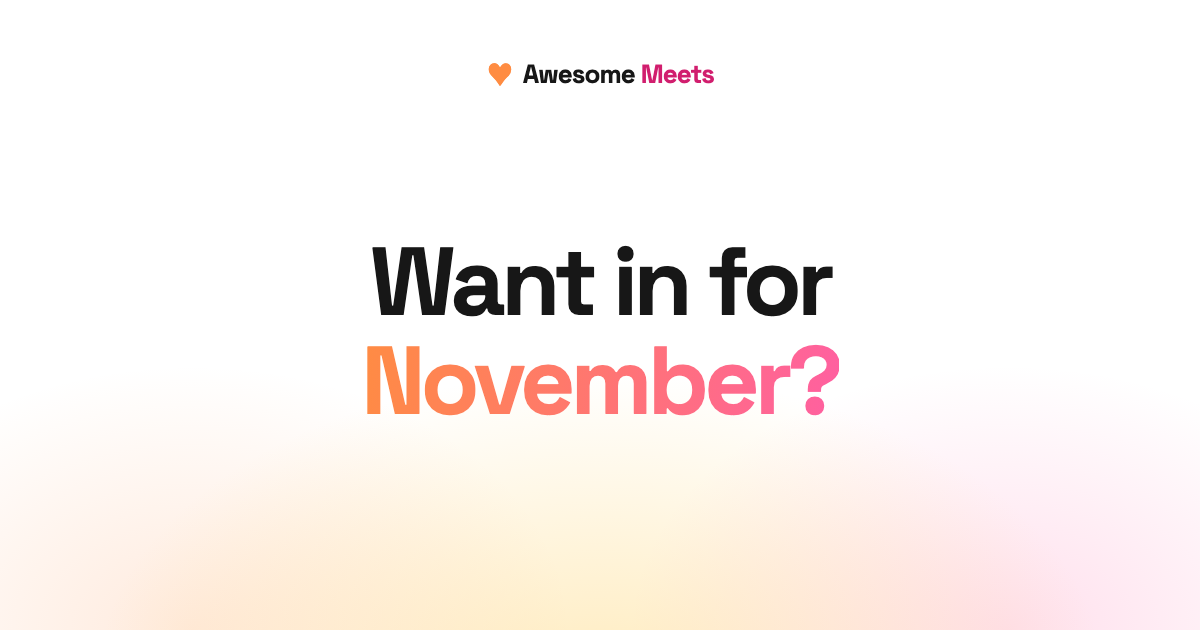
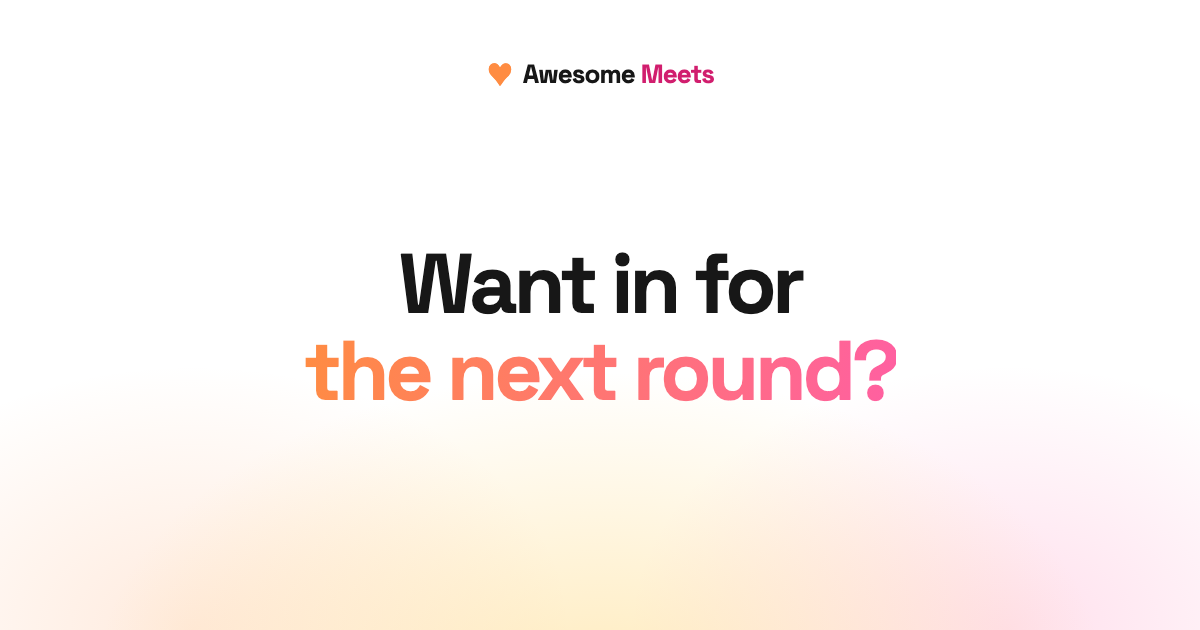
Join thumbnail without a month: Want in for the next round? (v2.55)

Changed region(s): [[0.2467, 0.5429, 0.7708, 0.6635], [0.3083, 0.3921, 0.7092, 0.5127]]

diff --git a/join/index.html b/join/index.html
@@ -13,7 +13,7 @@
     gtag('config', 'G-60GBR73KYC');
   </script>
   <script src="https://analytics.ahrefs.com/analytics.js" data-key="cfnnZfeMKl9oOXrEyxjwuw" async></script>
-  <meta name="am-version" content="2.54">
+  <meta name="am-version" content="2.55">
   <title>Join the waitlist for December | Awesome Meets</title>
   <meta name="description" content="Join the waitlist for December. Awesome Meets introduces you to someone new in Helsinki for a one-to-one conversation over lunch, coffee or a walk.">
   <link rel="canonical" href="https://awesomemeets.com/join/">
@@ -21,10 +21,10 @@
   <meta property="og:type" content="website">
   <meta property="og:title" content="Join the waitlist for December | Awesome Meets">
   <meta property="og:description" content="Join the waitlist for December. Awesome Meets introduces you to someone new in Helsinki for a one-to-one conversation over lunch, coffee or a walk.">
-  <meta property="og:image" content="https://awesomemeets.com/assets/img/og-join.png">
+  <meta property="og:image" content="https://awesomemeets.com/assets/img/og-join.png?v=2">
   <meta property="og:image:width" content="1200">
   <meta property="og:image:height" content="630">
-  <meta name="twitter:image" content="https://awesomemeets.com/assets/img/og-join.png">
+  <meta name="twitter:image" content="https://awesomemeets.com/assets/img/og-join.png?v=2">
   <meta property="og:url" content="https://awesomemeets.com/join/">
   <meta name="twitter:card" content="summary_large_image">
   <link rel="icon" href="../favicon.ico" sizes="any">
@@ -35,7 +35,7 @@
   <link rel="preconnect" href="https://fonts.googleapis.com">
   <link rel="preconnect" href="https://fonts.gstatic.com" crossorigin>
   <link href="https://fonts.googleapis.com/css2?family=Inter:wght@400;500;600&family=Space+Grotesk:wght@500;600;700&display=swap" rel="stylesheet">
-  <link rel="stylesheet" href="../assets/css/site.css?v=2.54">
+  <link rel="stylesheet" href="../assets/css/site.css?v=2.55">
 </head>
 <body>
 
@@ -338,9 +338,9 @@
   </div>
 </footer>
 
-<script src="../assets/js/config.js?v=2.54"></script>
-<script src="../assets/js/site.js?v=2.54"></script>
-<script src="../assets/js/form.js?v=2.54"></script>
+<script src="../assets/js/config.js?v=2.55"></script>
+<script src="../assets/js/site.js?v=2.55"></script>
+<script src="../assets/js/form.js?v=2.55"></script>
 <!-- Buy Me a Coffee button (Anna's own embed code, 30 Sep 2026). Its phone position and message style are adjusted in site.css. -->
 <script data-name="BMC-Widget" data-cfasync="false" src="https://cdnjs.buymeacoffee.com/1.0.0/widget.prod.min.js" data-id="awesomemeets" data-description="Support me on Buy me a coffee!" data-message="Support Awesome Meets, one coffee at a time ☕" data-color="#FF813F" data-position="Right" data-x_margin="18" data-y_margin="18"></script>
 </body>

diff --git a/index.html b/index.html
@@ -13,7 +13,7 @@
     gtag('config', 'G-60GBR73KYC');
   </script>
   <script src="https://analytics.ahrefs.com/analytics.js" data-key="cfnnZfeMKl9oOXrEyxjwuw" async></script>
-  <meta name="am-version" content="2.54">
+  <meta name="am-version" content="2.55">
   <title>One-to-one networking in Helsinki | Awesome Meets</title>
   <meta name="description" content="Awesome Meets is one-to-one networking in Helsinki. We introduce you to someone new from your field, and you meet over lunch, coffee or a walk.">
   <link rel="canonical" href="https://awesomemeets.com/">
@@ -40,8 +40,8 @@
   <link href="https://fonts.googleapis.com/css2?family=Inter:wght@400;500;600&family=Space+Grotesk:wght@500;600;700&display=swap" rel="stylesheet">
   <!-- 'js' lets sections fade in as you scroll. If the homepage script never arrives, show everything after 4 seconds. -->
   <script>document.documentElement.className = 'js'; setTimeout(function () { if (!window.AMHome) document.documentElement.className = ''; }, 4000);</script>
-  <link rel="stylesheet" href="assets/css/site.css?v=2.54">
-  <link rel="stylesheet" href="assets/css/home.css?v=2.54">
+  <link rel="stylesheet" href="assets/css/site.css?v=2.55">
+  <link rel="stylesheet" href="assets/css/home.css?v=2.55">
 </head>
 <body class="home has-dock">
 
@@ -281,9 +281,9 @@
   <a class="btn btn--primary" href="join/" data-show="open" hidden>Sign up</a>
 </div>
 
-<script src="assets/js/config.js?v=2.54"></script>
-<script src="assets/js/site.js?v=2.54"></script>
-<script src="assets/js/home.js?v=2.54"></script>
+<script src="assets/js/config.js?v=2.55"></script>
+<script src="assets/js/site.js?v=2.55"></script>
+<script src="assets/js/home.js?v=2.55"></script>
 <!-- Buy Me a Coffee button (Anna's own embed code, 30 Sep 2026). Its phone position and message style are adjusted in site.css. -->
 <script data-name="BMC-Widget" data-cfasync="false" src="https://cdnjs.buymeacoffee.com/1.0.0/widget.prod.min.js" data-id="awesomemeets" data-description="Support me on Buy me a coffee!" data-message="Support Awesome Meets, one coffee at a time ☕" data-color="#FF813F" data-position="Right" data-x_margin="18" data-y_margin="18"></script>
 </body>

diff --git a/about/index.html b/about/index.html
@@ -13,7 +13,7 @@
     gtag('config', 'G-60GBR73KYC');
   </script>
   <script src="https://analytics.ahrefs.com/analytics.js" data-key="cfnnZfeMKl9oOXrEyxjwuw" async></script>
-  <meta name="am-version" content="2.54">
+  <meta name="am-version" content="2.55">
   <title>About Awesome Meets: one-to-one networking in Helsinki</title>
   <meta name="description" content="Who runs Awesome Meets, how one-to-one networking in Helsinki works, and answers to common questions. By the creators of The Awesome Marketers.">
   <link rel="canonical" href="https://awesomemeets.com/about/">
@@ -38,7 +38,7 @@
   <link rel="preconnect" href="https://fonts.googleapis.com">
   <link rel="preconnect" href="https://fonts.gstatic.com" crossorigin>
   <link href="https://fonts.googleapis.com/css2?family=Inter:wght@400;500;600&family=Space+Grotesk:wght@500;600;700&display=swap" rel="stylesheet">
-  <link rel="stylesheet" href="../assets/css/site.css?v=2.54">
+  <link rel="stylesheet" href="../assets/css/site.css?v=2.55">
 </head>
 <body class="has-dock">
 
@@ -153,8 +153,8 @@
   <a class="btn btn--primary" href="../join/" data-am-cta>Join the waitlist for December</a>
 </div>
 
-<script src="../assets/js/config.js?v=2.54"></script>
-<script src="../assets/js/site.js?v=2.54"></script>
+<script src="../assets/js/config.js?v=2.55"></script>
+<script src="../assets/js/site.js?v=2.55"></script>
 <!-- Buy Me a Coffee button (Anna's own embed code, 30 Sep 2026). Its phone position and message style are adjusted in site.css. -->
 <script data-name="BMC-Widget" data-cfasync="false" src="https://cdnjs.buymeacoffee.com/1.0.0/widget.prod.min.js" data-id="awesomemeets" data-description="Support me on Buy me a coffee!" data-message="Support Awesome Meets, one coffee at a time ☕" data-color="#FF813F" data-position="Right" data-x_margin="18" data-y_margin="18"></script>
 </body>

diff --git a/data/index.html b/data/index.html
@@ -13,7 +13,7 @@
     gtag('config', 'G-60GBR73KYC');
   </script>
   <script src="https://analytics.ahrefs.com/analytics.js" data-key="cfnnZfeMKl9oOXrEyxjwuw" async></script>
-  <meta name="am-version" content="2.54">
+  <meta name="am-version" content="2.55">
   <title>Data policy | Awesome Meets</title>
   <meta name="description" content="What Awesome Meets collects, who can see it, what it is used for and how to have it deleted. The short version first, then the full data policy.">
   <link rel="canonical" href="https://awesomemeets.com/data/">
@@ -35,7 +35,7 @@
   <link rel="preconnect" href="https://fonts.googleapis.com">
   <link rel="preconnect" href="https://fonts.gstatic.com" crossorigin>
   <link href="https://fonts.googleapis.com/css2?family=Inter:wght@400;500;600&family=Space+Grotesk:wght@500;600;700&display=swap" rel="stylesheet">
-  <link rel="stylesheet" href="../assets/css/site.css?v=2.54">
+  <link rel="stylesheet" href="../assets/css/site.css?v=2.55">
 </head>
 <body class="has-dock">
 
@@ -198,8 +198,8 @@
   <a class="btn btn--primary" href="../join/" data-am-cta>Join the waitlist for December</a>
 </div>
 
-<script src="../assets/js/config.js?v=2.54"></script>
-<script src="../assets/js/site.js?v=2.54"></script>
+<script src="../assets/js/config.js?v=2.55"></script>
+<script src="../assets/js/site.js?v=2.55"></script>
 <!-- Buy Me a Coffee button (Anna's own embed code, 30 Sep 2026). Its phone position and message style are adjusted in site.css. -->
 <script data-name="BMC-Widget" data-cfasync="false" src="https://cdnjs.buymeacoffee.com/1.0.0/widget.prod.min.js" data-id="awesomemeets" data-description="Support me on Buy me a coffee!" data-message="Support Awesome Meets, one coffee at a time ☕" data-color="#FF813F" data-position="Right" data-x_margin="18" data-y_margin="18"></script>
 </body>

diff --git a/plan/index.html b/plan/index.html
@@ -8,7 +8,7 @@
        earliest shared time and a place and emails the group. Same rules as feedback/: lives here and not on the Google
        script's own address (Drive error for anyone signed into several Google accounts), and on purpose NO Google
        Analytics, NO Ahrefs and NO Buy Me a Coffee: the address carries a personal link code. Not in the sitemap, not indexed. -->
-  <meta name="am-version" content="2.54">
+  <meta name="am-version" content="2.55">
   <title>Plan your meetup | Awesome Meets</title>
   <meta name="robots" content="noindex, nofollow">
   <meta name="referrer" content="no-referrer">
@@ -20,7 +20,7 @@
   <link rel="preconnect" href="https://fonts.googleapis.com">
   <link rel="preconnect" href="https://fonts.gstatic.com" crossorigin>
   <link href="https://fonts.googleapis.com/css2?family=Inter:wght@400;500;600&family=Space+Grotesk:wght@500;600;700&display=swap" rel="stylesheet">
-  <link rel="stylesheet" href="../assets/css/site.css?v=2.54">
+  <link rel="stylesheet" href="../assets/css/site.css?v=2.55">
 </head>
 <body class="fb-page plan-page">
 
@@ -136,7 +136,7 @@
   </div>
 </footer>
 
-<script src="../assets/js/config.js?v=2.54"></script>
-<script src="../assets/js/plan.js?v=2.54"></script>
+<script src="../assets/js/config.js?v=2.55"></script>
+<script src="../assets/js/plan.js?v=2.55"></script>
 </body>
 </html>

diff --git a/feedback/index.html b/feedback/index.html
@@ -8,7 +8,7 @@
        ("Sorry, unable to open the file at this time") to anyone signed into more than one Google account.
        On purpose this page has NO Google Analytics, NO Ahrefs and NO Buy Me a Coffee button: the address carries
        a personal link code, and that code should not travel to any other service. Not in the sitemap, not indexed. -->
-  <meta name="am-version" content="2.54">
+  <meta name="am-version" content="2.55">
   <title>How did it go? | Awesome Meets</title>
   <meta name="robots" content="noindex, nofollow">
   <meta name="referrer" content="no-referrer">
@@ -20,7 +20,7 @@
   <link rel="preconnect" href="https://fonts.googleapis.com">
   <link rel="preconnect" href="https://fonts.gstatic.com" crossorigin>
   <link href="https://fonts.googleapis.com/css2?family=Inter:wght@400;500;600&family=Space+Grotesk:wght@500;600;700&display=swap" rel="stylesheet">
-  <link rel="stylesheet" href="../assets/css/site.css?v=2.54">
+  <link rel="stylesheet" href="../assets/css/site.css?v=2.55">
 </head>
 <body class="fb-page">
 
@@ -157,7 +157,7 @@
   </div>
 </footer>
 
-<script src="../assets/js/config.js?v=2.54"></script>
-<script src="../assets/js/feedback.js?v=2.54"></script>
+<script src="../assets/js/config.js?v=2.55"></script>
+<script src="../assets/js/feedback.js?v=2.55"></script>
 </body>
 </html>

diff --git a/tools/thumb.html b/tools/thumb.html
@@ -45,7 +45,8 @@
 <script>
   var PAGES = {
     home:  { line: 'When did you last meet someone who <span class="g">isn’t a colleague?</span>', size: 62 },
-    join:  { line: 'Want in for <span class="g">November?</span>', size: 96 },
+    // No month in this one (Anna, 20 Nov 2026: "month-agnostic"), so it never needs changing when a round opens or closes.
+    join:  { line: 'Want in for <span class="g own">the next round?</span>', size: 84, sq: 74 },   // sq: a smaller base for the square, so the long line keeps its side margins
     about: { line: 'Made by the creators of <span class="g own">The Awesome Marketers</span>', size: 52 },
     data:  { line: 'What happens to <span class="g">your data</span>', size: 84 }
   };
@@ -54,7 +55,7 @@
   if (parts[1] === 'square') { document.documentElement.className = 'square'; document.body.className = 'square'; }
   var line = document.getElementById('line');
   line.innerHTML = page.line;
-  line.style.setProperty('--size', page.size + 'px');
+  line.style.setProperty('--size', ((parts[1] === 'square' && page.sq) || page.size) + 'px');
   if (parts[1] !== 'square') line.style.fontSize = page.size + 'px';
 </script>
 </body>

diff --git a/404.html b/404.html
@@ -13,7 +13,7 @@
     gtag('config', 'G-60GBR73KYC');
   </script>
   <script src="https://analytics.ahrefs.com/analytics.js" data-key="cfnnZfeMKl9oOXrEyxjwuw" async></script>
-  <meta name="am-version" content="2.54">
+  <meta name="am-version" content="2.55">
   <title>Page not found | Awesome Meets</title>
   <meta name="robots" content="noindex">
   <!-- This page is shown for any wrong address, at any depth, so it works out where the site starts:
@@ -29,7 +29,7 @@
   <link rel="preconnect" href="https://fonts.googleapis.com">
   <link rel="preconnect" href="https://fonts.gstatic.com" crossorigin>
   <link href="https://fonts.googleapis.com/css2?family=Inter:wght@400;500;600&family=Space+Grotesk:wght@500;600;700&display=swap" rel="stylesheet">
-  <link rel="stylesheet" href="assets/css/site.css?v=2.54">
+  <link rel="stylesheet" href="assets/css/site.css?v=2.55">
 </head>
 <body>
 
@@ -67,7 +67,7 @@
   </div>
 </footer>
 
-<script src="assets/js/config.js?v=2.54"></script>
-<script src="assets/js/site.js?v=2.54"></script>
+<script src="assets/js/config.js?v=2.55"></script>
+<script src="assets/js/site.js?v=2.55"></script>
 </body>
 </html>

diff --git a/assets/js/config.js b/assets/js/config.js
@@ -21,7 +21,7 @@
  *   (months count from 0: 9 = October, 10 = November)
  */
 window.AM = {
-  version: 'v2.54 · 19 Nov 2026',
+  version: 'v2.55 · 20 Nov 2026',
 
   // Same Apps Script web app as the sign-up page on awesomemarketers.fi. Saves to the private Sheet.
   endpoint: 'https://script.google.com/macros/s/AKfycbxtaKFKri4vSEVKIYB3x26mPwqlUhfttJb2140a12CwglzSUaJkGkIJ9X_Kt9nRFGAW/exec',

diff --git a/README.md b/README.md
@@ -24,7 +24,7 @@ Marketers in Helsinki fill in a short form, Anna matches them with 1 or 2 market
 | `assets/js/form.js` | The sign-up form: questions, validation, sending |
 | `assets/css/home.css`, `assets/js/home.js` | Homepage only: the big question, the text that lights up, the two city cards |
 | `assets/img/` | Logo files, favicon, and the share thumbnails: `og-<page>.png` (1200×630 link previews) and `square-<page>.png` (1080×1080, for posts) |
-| `tools/thumb.html`, `tools/render_thumbs.sh` | The thumbnail design and the script that renders all eight PNGs. Change the text in `thumb.html`, run `./tools/render_thumbs.sh`. |
+| `tools/thumb.html`, `tools/render_thumbs.sh` | The thumbnail design and the script that renders all eight PNGs. Change the text in `thumb.html`, run `./tools/render_thumbs.sh`. The join one has no month in it ("Want in for the next round?", since v2.55), so it is not part of opening or closing a round. |
 | `release.py` | Sets a new version number everywhere, including the `?v=` on stylesheet and script links. Run before every commit. |
 
 ## The homepage (v2)
@@ -135,6 +135,7 @@ Brand kit: https://claude.ai/artifact/Aj3ijuYQ3r8evhUy9vzM7q
 | v2.29 | 6 Oct 2026 | **November sign-ups OPEN** (mode 'open', opensAt Tue 6 Oct 14:45 Helsinki, closes Mon 26 Oct 4PM). Countdown (days, hours, minutes, seconds) under the hero's Sign up button while a round is open (`[data-countdown]` in site.js, any page can use it). Open-state copy: "Not in Helsinki?" card says this round you can sign up from anywhere in Finland (other-city waitlist only while no round is open); step 4 "One-to-one or in a trio…"; About FAQ "Where does Awesome Meets run?" (visible + FAQPage JSON-LD) updated. |
 | v2.30 | 6 Oct 2026 | Join page tab title reads "Sign up for November" while the round is open (site.js). |
 | v2.31 | 6 Oct 2026 | Countdown label "November sign-ups close in" (from round.label). Sign-up bar pinned to the top while a round is open (inside the sticky header, every page except join/ and feedback/): "November sign-ups close in 20d 01h 34m 07s" + Sign up (/join/) + × that hides it for the rest of the visit (sessionStorage). Homepage hero gives up the bar's height (`.has-topbar` in home.css) so the first view still fits one screen. |
+| v2.55 | 20 Nov 2026 | Join thumbnail no longer names a month: "Want in for the next round?" instead of "Want in for November?" (Anna: "month-agnostic"). Same design. The join page points at `og-join.png?v=2` so apps fetch the new picture; raise that number if the picture ever changes again. Versions 2.32 to 2.54 are logged in `networking-app/HANDOFF.md`. |
 | v2.4 | 30 Sep 2026 | New share thumbnails, one per page, designed so the middle square survives a square crop, plus true square versions. The footer no longer shows the version: it says "© 2026 Awesome Meets". |
 | v2.3 | 30 Sep 2026 | The second, third and fourth views each fit one screen: the networking text is four short paragraphs, the steps are four compact cards in a row, "Where are you?" is its own view. |
 | v2.2 | 30 Sep 2026 | Stylesheet and script links carry the version (`?v=2.2`), set by `release.py`. Fixes the page looking broken for up to ten minutes after an update. |
